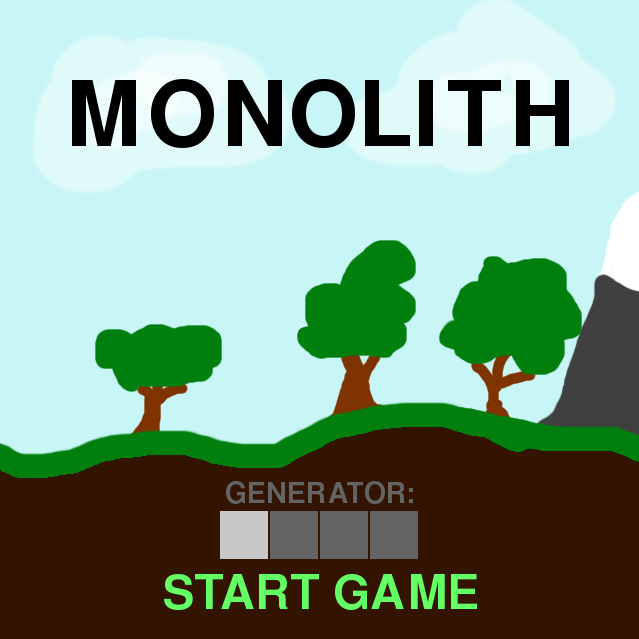
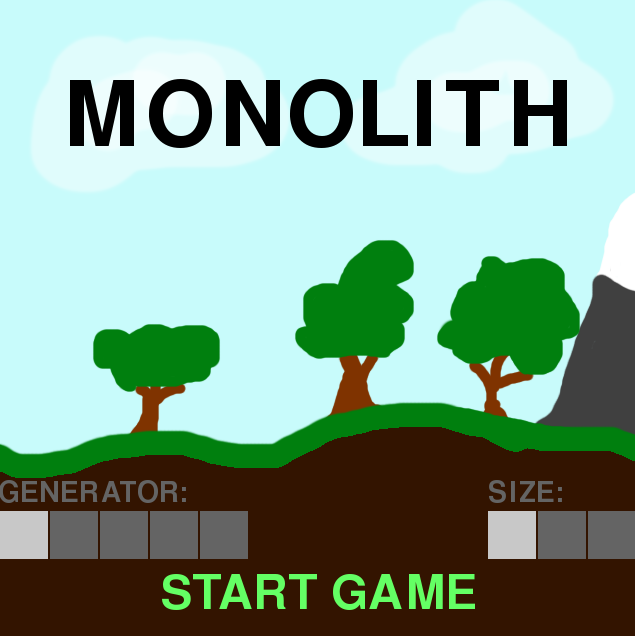
New Screenshot, Remove generator 5

diff --git a/Monolith/Generators.py b/Monolith/Generators.py
@@ -149,6 +149,6 @@ def generatelake(x,y,tid,centre,fullsize,partsize,world):
     dmiddle=math.sqrt(abs(x-32+centre[0])**2+abs(y-25+centre[1])**2)
     if dmiddle<randint(fullsize,partsize):
         world.set_terr(x,y,tid)
-gens=[Original(),EcoDesert(),RGBFactory(),HeightMap(1),HeightMap(2),HeightMap(3),Test()]
+gens=[Original(),EcoDesert(),RGBFactory(),HeightMap(1),HeightMap(3)]
 puzzles=[[RGBPuzzle((0,0,0)),RGBPuzzle((0,255,0)),RGBPuzzle((255,255,255)),RGBPuzzle((127,127,0))],
          [RGBPuzzle((63,0,63)),RGBPuzzle((0,191,63)),RGBPuzzle((127,63,191)),RGBPuzzle((31,127,0))]]

diff --git a/Monolith/__init__.py b/Monolith/__init__.py
@@ -51,7 +51,7 @@ while cont:
     screen.blit(Img.dfont.render("SIZE:",True,(100,100,100)),(490,480))
     grects=[]
     wsrects=[]
-    for n in range(6):
+    for n in range(len(Generators.gens)):
         grects.append((pygame.draw.rect(screen,(200,200,200) if n==wgen else (100,100,100),pygame.Rect(2+n*50,512,48,48)),n))
     for n in range(3):
         wsrects.append((pygame.draw.rect(screen,(200,200,200) if n==wsizemod else (100,100,100),pygame.Rect(490+n*50,512,48,48)),n))
